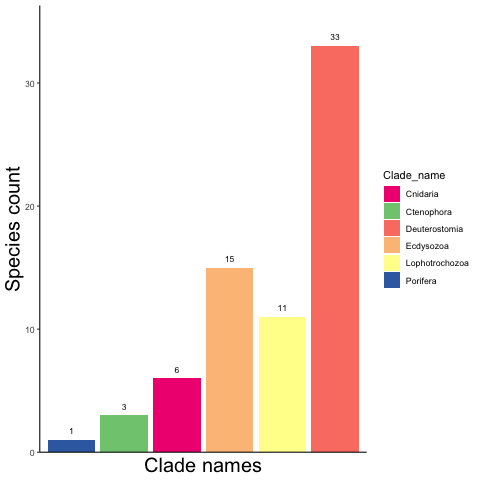
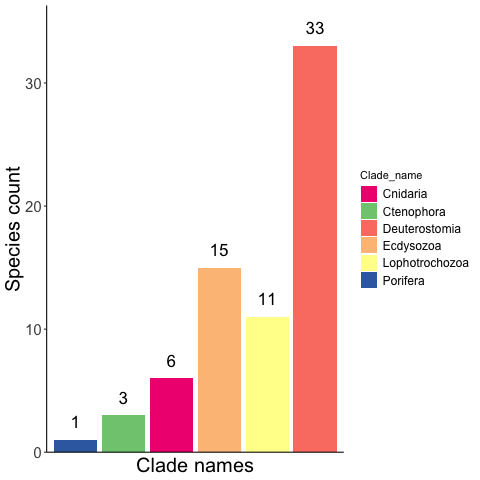
Simple examples in ggplot

diff --git a/ggplotR/README.md b/ggplotR/README.md
@@ -15,7 +15,7 @@ Eg. A table named `animal_species_count.csv` with animal phyla and the number of
 | Ecdysozoa        |	15	   |
 | Deuterostomia    |	33	   |
 
-You can load the data file in manually into R or import it from (R commmand line)[https://www.statmethods.net/input/importingdata.html]
+You can load the data file in manually into R or import it from ((R commmand line)[https://www.statmethods.net/inputimportingdata.html])
 
 ```Shell
 df <- read.table("Filename.csv", header = TRUE)
@@ -40,7 +40,7 @@ There are two main components of any ggplot plot.
 
 * Second is the type of plot you wish to make (in this case a barchart `geom_bar(stat = "identity", fill = "blue")`
 
-Note the `geom_bar` can be changed to any type of plot eg. scatter plot: `geom_point`, box plot: `geom_boxplot` or violin plot: `geom_violin` etc.
+**Note** `geom_bar` can be changed to any type of plot eg. scatter plot: `geom_point`, box plot: `geom_boxplot` or violin plot: `geom_violin` etc.
 
 Together these two main components can be written as:
 
@@ -63,11 +63,11 @@ geom_bar(stat = "identity", fill = "blue")
 
 Once we have this bar chart we can add some additional pieces of information to the code to make the final image look a bit nicer.
 
-1. Add your own colours to the bars
+1. **Add your own colours to the bars**
 
 Change your `geom_bar(fill="blue")` variable to `aes(fill=Clade_name)` to match each x axis value.
 
-Then add an additional line using `scale_fill_manual` to provide your own colours (6 animal phyla means I must provide 6 colours)
+Then add an additional line using `scale_fill_manual()` to provide your own colours (6 animal phyla means I must provide 6 colours)
 
 ```Shell
 ggplot(taxa_spread, aes(x = factor(Clade_name, levels=unique(Clade_name)), y = Species_count)) +
@@ -77,9 +77,11 @@ scale_fill_manual(values = c("#f0027f", "#7fc97f", "#fb8072", "#fdc086", "#ffff9
 
 ![Example plot 2.](second_plot.png)
 
-Hex colours can be obtained from the useful website (colorbrewer)[http://colorbrewer2.org/#type=sequential&scheme=BuGn&n=3]
+**Tip** Hex colours can be obtained from the useful website ((colorbrewer.org)[http://colorbrewer2.org/#type=sequential&scheme=BuGn&n=3])
 
-2. Remove background colour and unecessary space
+---
+
+2. **Remove background colour and unecessary space**
 
 To get a blank white background add `theme_classic()`
 
@@ -93,9 +95,11 @@ theme_classic() +
 scale_y_continuous(expand = c(0,0,0.1,0))
 ```
 
-![Example plot 3.](thrid_plot.png)
+![Example plot 3.](third_plot.png)
 
-3. Change the axis label names
+---
+
+3. **Change the axis label names**
 
 Add `labs(x = "", y = "")` to change the name of your x and y axis (insert NULL if you do not want an axis label)
 
@@ -108,29 +112,29 @@ scale_y_continuous(expand = c(0,0,0.1,0)) +
 labs(x = "Clade names", y = "Species count")
 ```
 
-4. Add in or edit text within the plot
+4. **Add in or edit text within the plot**
 
 * To add additional text or change the size, position or orientation of the text within the plot use `theme()`
 
 Remove x axis labels: `theme(axis.text.x = element_blank())`
 Increase size of x axis title `theme(axis.title.x = element_text(size = 20))`
 Remove tick marks on x axis bar `theme(axis.ticks.x = element_blank())`
+Increase size of legend text `theme(legend.text=element_text(size=12))`
 
-These examples can be used together and with different options (Use axis.ticks.y to change y axis variables)
 
 * Add in values above the bars using `geom_text()` and the y axis values
 
 `geom_text(aes(label = paste0(Species_count)), vjust = -1, size = 3, color = "black")`
 
 ```Shell
-ggplot(taxa_spread, aes(x = factor(Clade_name, levels=unique(Clade_name)), y = Species_count)) + 
+ggplot(taxa_spread, aes(x = factor(Clade_name, levels=unique(Clade_name)), y = Species_count)) +
 geom_bar(stat = "identity", aes(fill=Clade_name)) + 
 scale_fill_manual(values = c("#f0027f", "#7fc97f", "#fb8072", "#fdc086", "#ffff99", "#386cb0")) +
 theme_classic() +
 scale_y_continuous(expand = c(0,0,0.1,0)) +
-labs(x = "Clade names", y = "Species count") + 
-theme(axis.text.x = element_blank(), axis.title.x = element_text(size = 20), axis.title.y = element_text(size = 20), axis.ticks.x = element_blank()) +
-geom_text(aes(label = paste0(Species_count)), vjust = -1, size = 3, color = "black")
+labs(x = "Clade names", y = "Species count") +
+theme(axis.text.x = element_blank(), axis.title.x = element_text(size = 20), axis.title.y = element_text(size = 20), axis.text.y = element_text(size = 15), axis.ticks.x = element_blank(), legend.text=element_text(size=12)) +
+geom_text(aes(label = paste0(Species_count)), vjust = -1, size = 6, color = "black")
 ```
 
 ![Example plot 4.](final_plot.png)
@@ -143,6 +147,6 @@ To save a plot called p as a png:
 png("plot_name.png")
 print(p)
 dev.off()
-``
+```
 
 To save as a pdf use `pdf("plot_name.pdf")`
